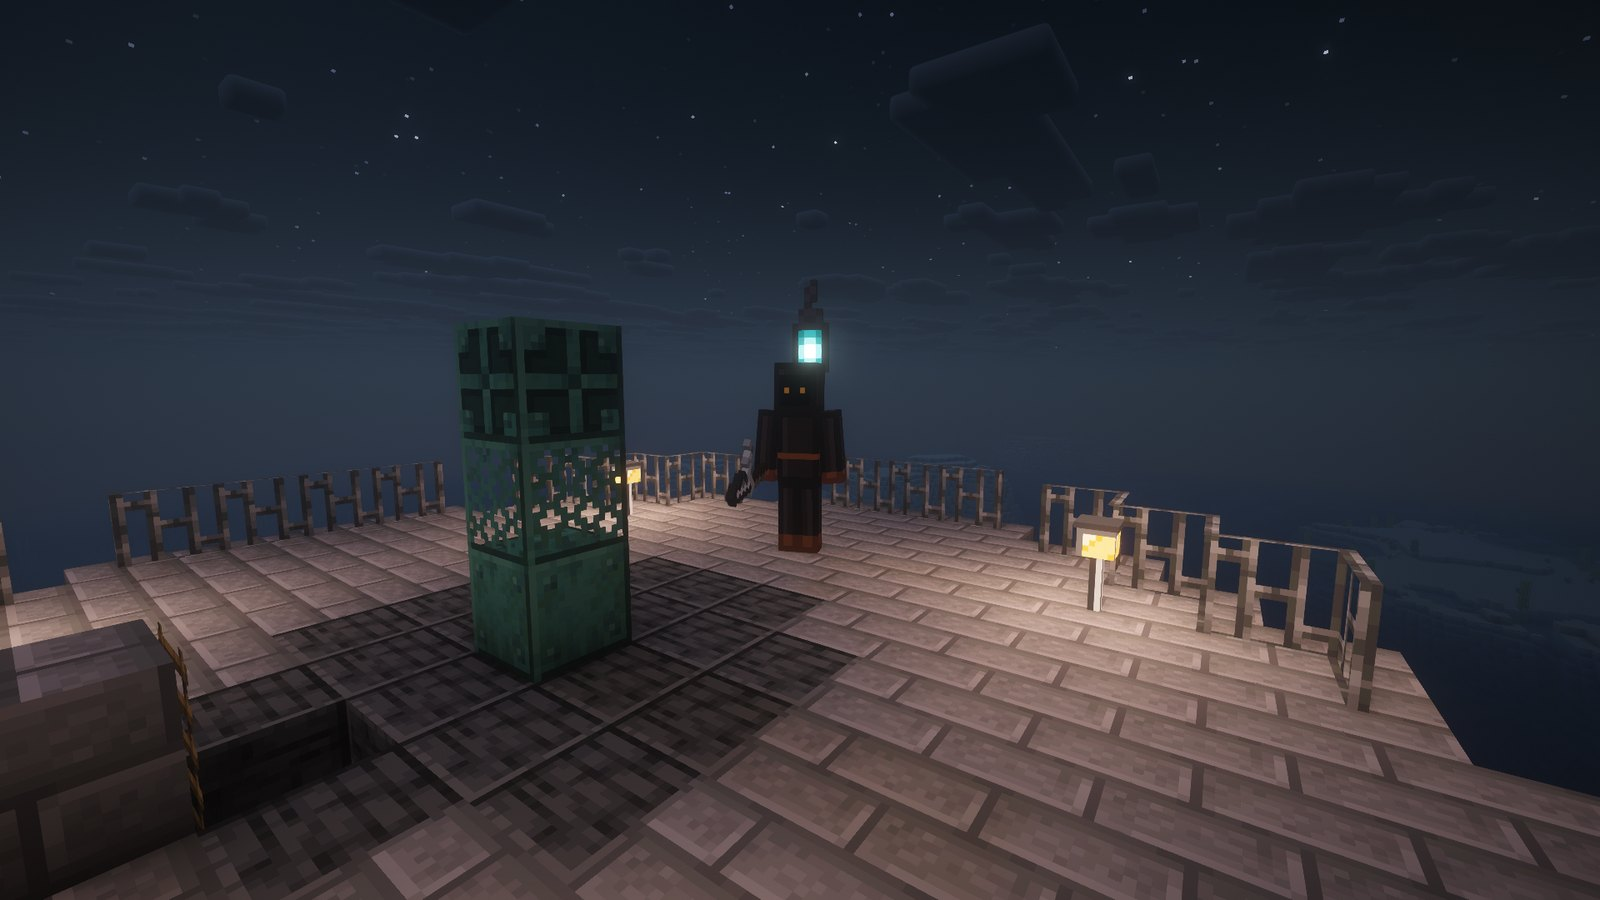
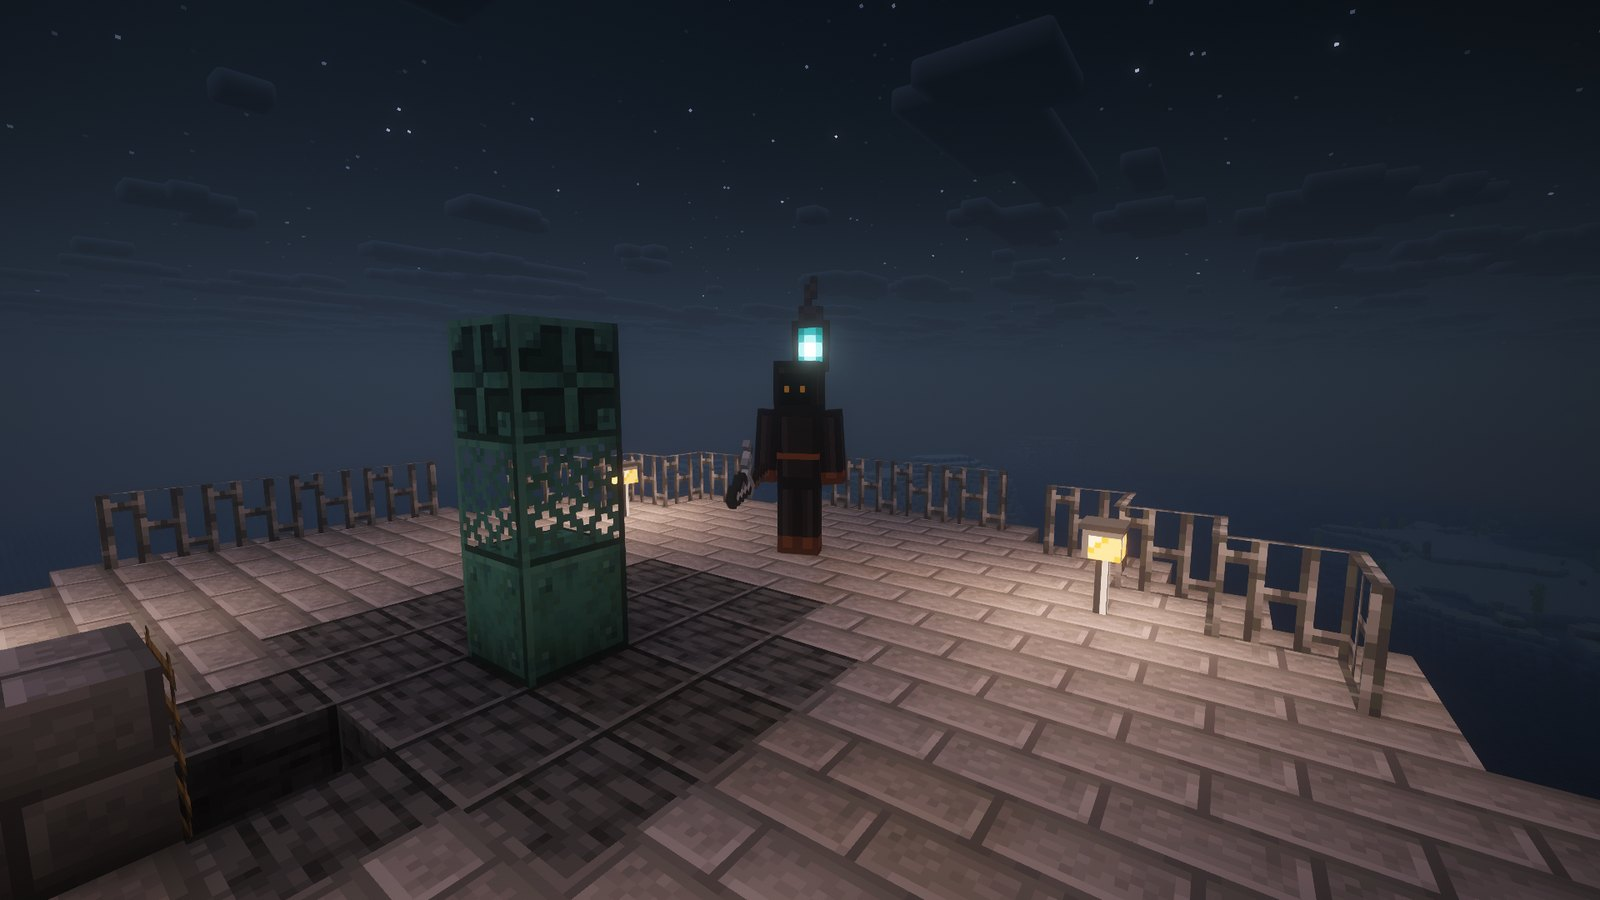
docs: README 照片以新的裝備美術重拍，移除尚未開源的啟動器描述
- 所有照片在遊戲中重新擺景、以光影拍攝，追獵者穿戴新的面罩與裝備
- 中英文 README 拿掉啟動器的提示

diff --git a/src/gametest/java/life/shizune/mistinn/test/MistinnPhotoTest.java b/src/gametest/java/life/shizune/mistinn/test/MistinnPhotoTest.java
@@ -107,11 +107,15 @@ public class MistinnPhotoTest implements FabricClientGameTest {
 			frame(context, world, station.offset(-10, 6, 12), station.offset(0, 2, 0), true);
 			shot(context, "drop-station", true);
 
-			// ── The hunter in tier VI gear, standing on the pad ──────
+			// ── The hunter in full gear, standing on the pad ─────────
 			world.getServer().runOnServer(server -> {
 				ServerPlayer player = player(server);
 				player.setItemSlot(EquipmentSlot.HEAD, new ItemStack(MistinnItems.HELMETS.get(6)));
 				player.setItemSlot(EquipmentSlot.CHEST, new ItemStack(MistinnItems.ARMORS.get(6)));
+				// leg gear stops at V; the bone face over the skull helm
+				player.setItemSlot(EquipmentSlot.LEGS, new ItemStack(MistinnItems.LEGGINGS.get(5)));
+				player.setItemSlot(EquipmentSlot.FEET, new ItemStack(MistinnItems.BOOTS.get(5)));
+				GridService.set(player, GridService.get(player).withMask(new ItemStack(MistinnItems.MASKS.get(6))));
 				player.getInventory().setItem(0, new ItemStack(MistinnItems.WEAPONS.get(WeaponStyle.SMASH).get(WeaponMaterial.NETHERITE)));
 				player.getInventory().setSelectedSlot(0);
 				player.getAbilities().flying = false;

diff --git a/docs/README.en.md b/docs/README.en.md
@@ -28,7 +28,7 @@ damage by body part, gear in seven tiers, a grid inventory inspired by extractio
 
 </div>
 
-![A hunter in the Rust God's Skull and Scales with a netherite hammer, standing on a drop station platform at dusk](images/hunter.jpg)
+![A hunter in the Rust God's Face, Skull and Scales and Bellkeeper greaves with a netherite hammer, standing on a drop station platform at dusk](images/hunter.jpg)
 
 > [!NOTE]
 > This is a translation of the [Chinese README](../README.md), which remains the primary version. Pages marked (Chinese) are only available in Chinese for now.
@@ -71,9 +71,6 @@ damage by body part, gear in seven tiers, a grid inventory inspired by extractio
 | Grid inventory | Four pockets, the chest rig's and backpack's grids, and a safe box kept through death; every item takes a footprint by kind and can be rotated. In survival the inventory is the mod's own screen, and the 27 vanilla slots are sealed off. |
 | Fog-shore lighthouses | Dead lighthouses on the coast; the lamp room at the top is held by the first keeper, **the Snuffer**, whose every move strikes a set part of the body. |
 | Languages | Traditional Chinese and English. |
-
-> [!TIP]
-> The easiest way to play is the **Mistinn Launcher**: it installs the game, Java, Fabric, this mod and a performance pack, and tunes the settings to your computer as Smooth, Normal or Ultra.
 
 ### Weapons
 

diff --git a/README.md b/README.md
@@ -28,7 +28,7 @@
 
 </div>
 
-![穿著鏽神骸盔與鏽神鱗甲、手持獄髓戰鎚的追獵者，站在黃昏的投放站平台上](docs/images/hunter.jpg)
+![戴著鏽神骸面、穿著鏽神骸盔、鏽神鱗甲與鐘守腿甲，手持獄髓戰鎚的追獵者，站在黃昏的投放站平台上](docs/images/hunter.jpg)
 
 <details>
 <summary>主選單</summary>
@@ -80,9 +80,6 @@
 | | |
 | --- | --- |
 | ![倒下的地方留下墓碑，右上角的小地圖標出陣亡點](docs/images/gravestone.jpg) | ![夜色裡在金鐘旁歇息](docs/images/golden-bell.jpg) |
-
-> [!TIP]
-> 最簡單的玩法是使用**霧宿啟動器**：它會裝好遊戲、Java、Fabric、本模組與一整套優化模組，並依你的電腦調整成流暢、普通或超高。
 
 ### 武器
 
